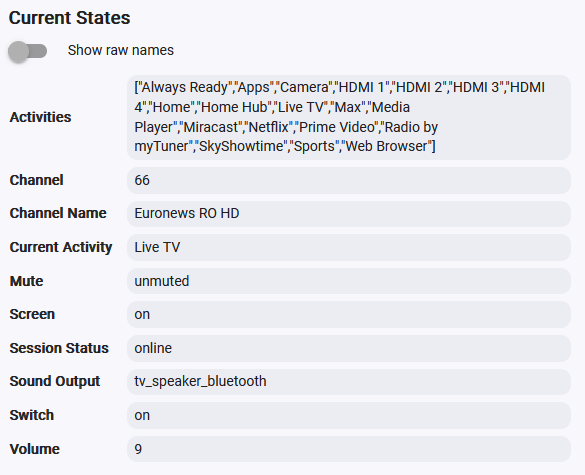
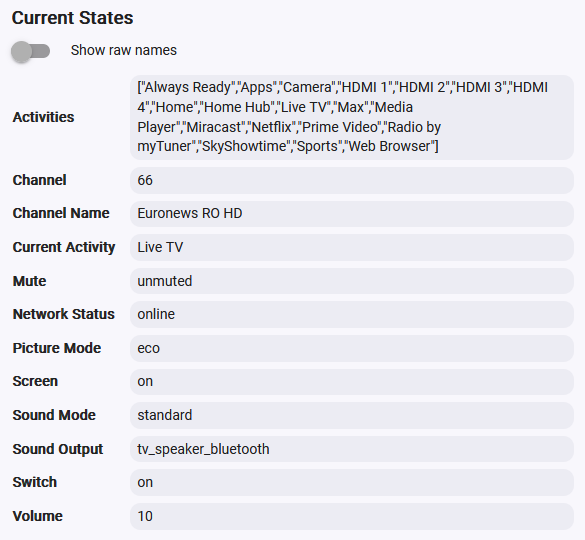
LGTV v1.1.0

diff --git a/README.md b/README.md
@@ -3,8 +3,8 @@
 Hubitat driver to control LG TV devices using webOS websockets.
 
 Tested devices:
-- LG OLED evo C2 55 inch (OLED55C21LA) - webOSTV 7.0 / 23.20.56
-- LG OLED evo C2 48 inch (OLED48C21LA) - webOSTV 7.0 / 23.20.56
+- LG OLED evo C2 55 inch (OLED55C21LA, 2022) - webOSTV 7.0 / 23.20.56
+- LG OLED evo C2 48 inch (OLED48C21LA, 2022) - webOSTV 7.0 / 23.20.56
 
 ## Installation
 There are two ways to install the drivers: using Hubitat Package Manager (HPM) or manually importing the driver code.
@@ -21,7 +21,7 @@ Once you have HPM installed, follow these steps to install the "LGTV with webOS"
 1. Follow the install instructions.
 
 ### Manual Installation
-If you don't want to use HPM, you can also install the drivers manually by importing the driver code from GitHub. Follow these steps to do so:
+If you prefer not to use HPM, you can manually install the drivers by importing the driver code from GitHub:
 
 1. In the Hubitat interface, go to **Drivers Code**.
 1. Click **Add driver**, then select **Import** from the hamburger menu in the top right.
@@ -29,32 +29,36 @@ If you don't want to use HPM, you can also install the drivers manually by impor
 1. Click **Import**, then click **OK** and the code should load in the editor.
 1. Click **Save** in the top right.
 
-More info about installing custom drivers is available in the [Official Documentation](https://docs2.hubitat.com/en/how-to/install-custom-drivers).
+For more information on installing custom drivers, refer to the [Official Documentation](https://docs2.hubitat.com/en/how-to/install-custom-drivers).
 
 ## Create Devices
 
-Follow these steps in order to create a new LG TV device:
+Follow these steps to create a new LG TV device:
+
+### Configure IP address
+1. Open your router's admin interface and set a static DHCP lease for your TV devices to ensure they always have the same IP addresses on your LAN.
+
+1. Ensure the TV and the Hubitat hub are on the same subnet for Wake-On-LAN functionality to work.
 
 ### Configure TV
-1. Make sure you are near your TV device, you cannot do this remotely.
-1. Make sure that the IP address for your LG TV is fixed, using DHCP reservations. This ensures that the IP address for your TV is not changing on every restart.
-1. Power on the TV, then open the TV settings.
+1. Ensure you are near your TV device, as this cannot be done remotely.
+1. Power on the TV and open the TV settings.
 1. Find and disable the **Always Ready** option (for OLED screens).
-1. Find and enable the **Network IP Control** options.
+1. Enable the **Network IP Control** option.
 1. Keep TV on for the following steps.
 
 ### Add device
 1. In the Hubitat interface, go to **Devices**.
 1. Click **Add device**, then select **Virtual**.
 1. Select **LGTV with webOS** from the drivers list, then click **Next**.
-1. Give your device a name, e.g. **Livingroom TV**, select a room, then click **Next**.
+1. Name your device (e.g., Livingroom TV), select a room, then click **Next**.
 1. Click **View device details** to go to the device page.
 1. Select the **Preferences** tab.
 1. Enter the TV IP address, then click **Save**.
-1. Check your TV screen and approve the notification that pops up.
-1. A toast notification should appear for a short time on your TV screen saying "Well done! Configuration is now complete".
-1. Select the **Commands** tab, then refresh the browser page (to reload the attributes list).
-1. If the **Current States** section does not populate with multiple attributes, check the Hubitat logs for clues. Debug messages are displayed for 30 minutes, then the log level automatically switches to **Info**.
+1. Approve the notification that appears on your TV screen.
+1. A toast notification should appear briefly on your TV screen saying **Well done! Configuration is now complete**.
+1. Select the **Commands** tab, then refresh the browser page to reload the attributes list.
+1. If the **Current States** section does not populate with multiple attributes, check the Hubitat logs for clues. Debug messages are displayed for 30 minutes, then the log level automatically switches to Info.
 
 ![TV Attributes](img/attributes.png)
 
@@ -69,8 +73,9 @@ The following commands are available:
 
 ### Sound volume control
 - Volume Up / Volume Down
-- Set Volume
+- Set Volume (0% - 100%)
 - Mute / Unmute
+- Set Sound Output (tv_speaker, external_arc, external_optical, bt_soundbar, mobile_phone, lineout, headphone, tv_speaker_bluetooth)
 
 ### Live TV channel control
 - Channel Up / Channel Down
@@ -78,6 +83,7 @@ The following commands are available:
 
 ### Screen control
 - Screen On / Screen Off
+- Set Picture Mode (cinema, eco, expert1, expert2, game, normal, photo, sports, technicolor, vivid, hdrEffect, filmMaker, hdrCinema)
 
 ### App control
 - Get All Activities - Populate the **Activities** attribute with available options for the **Start Activity** command
@@ -85,7 +91,15 @@ The following commands are available:
 - Start Activity - Start the specified app on the TV
 
 ### Notifications
-- Device Notification - Display a toast or an alert to the TV screen
+- Device Notification - Display toast or an alert notifications to the TV screen
+
+## Notes
+
+#### Wake On LAN
+When the TV is first paired with the Hubitat, the driver will attempt to auto-enable the Wake-On-LAN (WOL) settings on your TV.
+
+#### Detect TV start
+When the TV is turned on using its remote, it does not broadcast any message to the LAN. To overcome this, the driver pings the TV's IP address at the frequency set in the **Preferences** tab. The default ping interval is 5 minutes, so it can take up to 5 minutes for the driver to detect that the TV was turned on.
 
 Have fun!
 

diff --git a/CHANGELOG.md b/CHANGELOG.md
@@ -5,13 +5,15 @@ All notable changes to this project will be documented in this file.
 The format is based on [Keep a Changelog](https://keepachangelog.com/en/1.0.0/),
 and this project adheres to [Semantic Versioning](https://semver.org/spec/v2.0.0.html).
 
-## [1.1.0] - 2025-01-17
+## [1.1.0] - 2025-01-20
 ### Changed
 - Use the "hello" message to test if the websocket is really open
 - Use ping to detect when TV becomes online
 - Don't send the big pairing payload when we already have a Pairing Key
 - Automatically enable Wake On Lan settings when TV is first paired
-- Show a "Well done" toat on TV screen on successfull pairing
+- Show a "Well done" toast on TV screen on successfull pairing
+- Add "setPictureMode" and "setSoundOutput" commands
+- Add ping interval preference
 
 ## [1.0.0] - 2025-01-17
 ### Added
